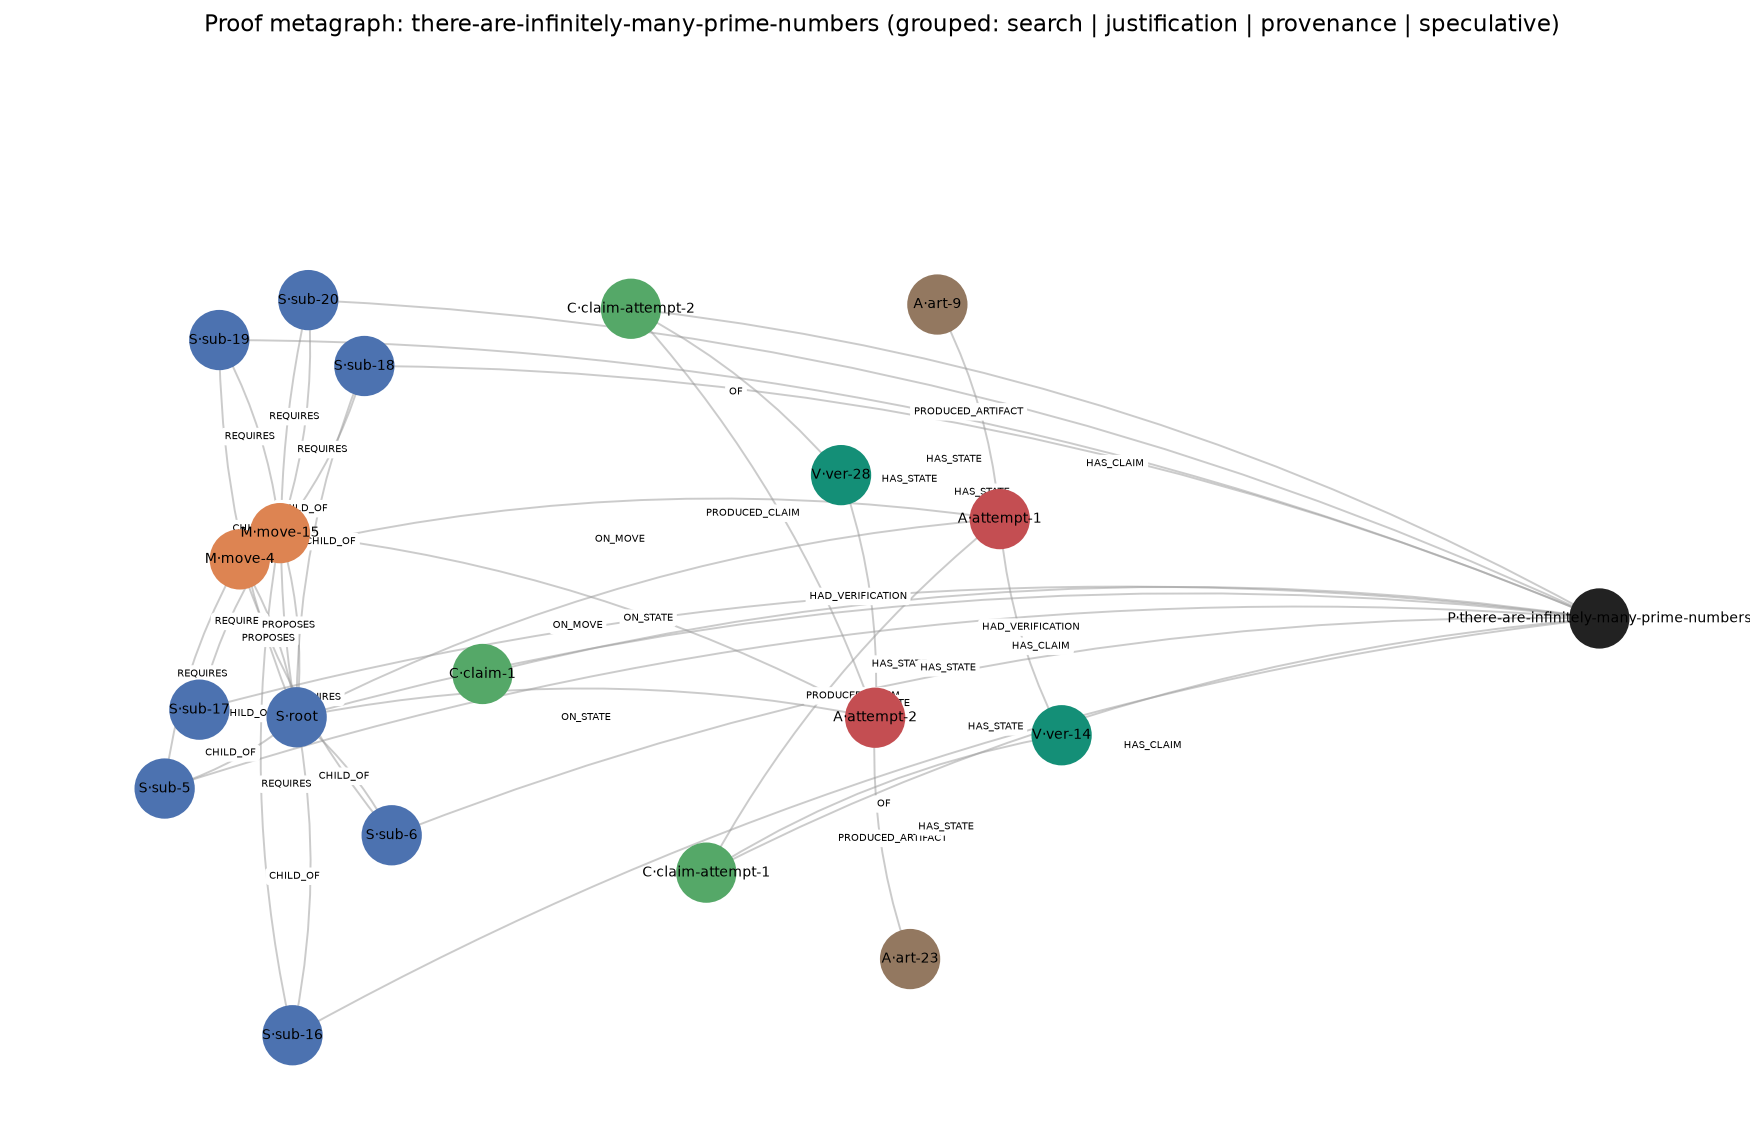
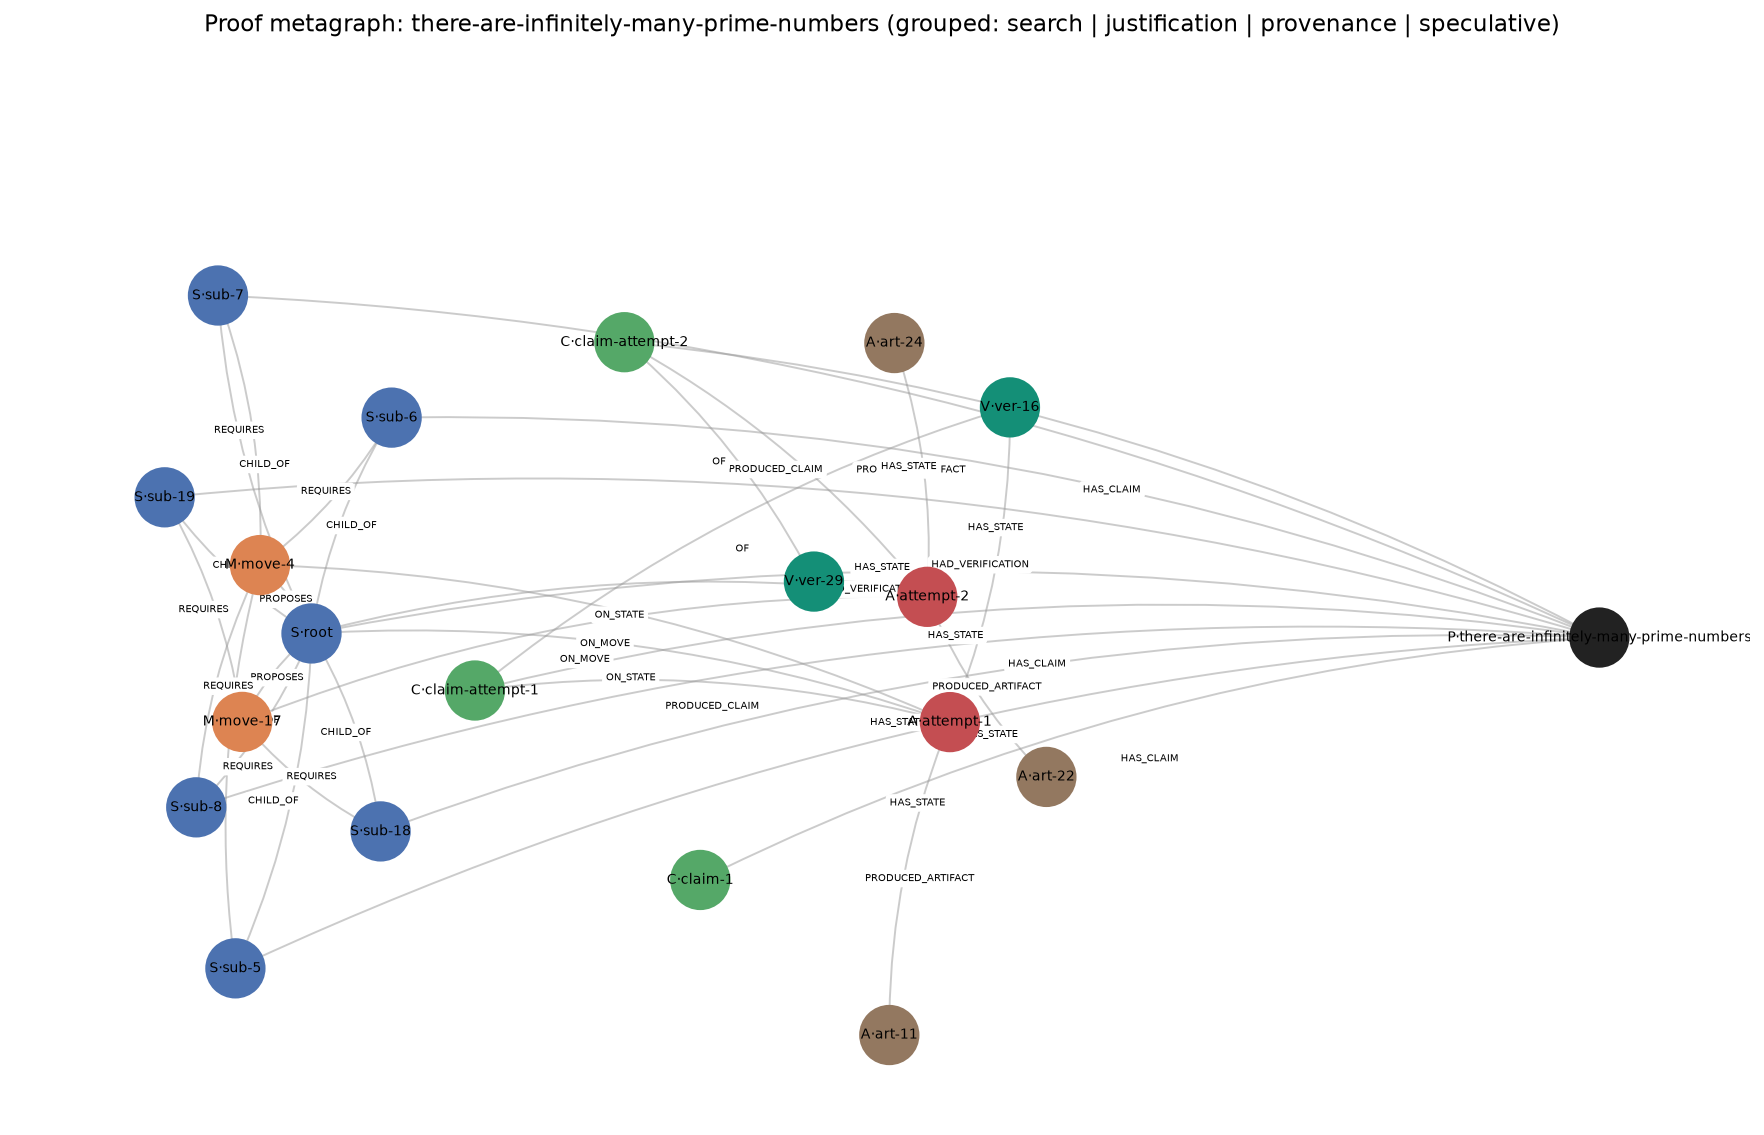
fix the error catagory

diff --git a/proof_proto/langgraph_workflow.py b/proof_proto/langgraph_workflow.py
@@ -76,6 +76,8 @@ LEAN_ERROR_CATEGORIES = (
     "inconsistent_assumptions",
     "likely_mathematical_gap",
    "formal_statement_stronger_than_informal",
+   "missing_mathlib_dependency",
+   "stale_or_moved_mathlib_module"
 )
 
 MATHLIB_GUIDANCE = (
@@ -490,18 +492,15 @@ def classify_lean_error(output: str, *, timed_out: bool = False) -> str:
     if timed_out:
         return "resource_timeout"
     text = output.lower()
-    # A missing import should not lower mathematical promise" —
-    # The specific diagnostic text (unknown module prefix,
-    # bad import, etc.) is still preserved verbatim in the raw `output`
-    # field, so nothing is actually lost -- just not its own category.
     if (
         "unknown module prefix" in text
         or ("no directory" in text and ".olean" in text)
-        or "bad import" in text
-        or "unknown identifier" in text
-        or "unknown constant" in text
-        or "unknown namespace" in text
+        or ("object file" in text and ".olean" in text and "does not exist" in text)
     ):
+        return "missing_mathlib_dependency"
+    if "bad import" in text:
+        return "stale_or_moved_mathlib_module"
+    if "unknown identifier" in text or "unknown constant" in text or "unknown namespace" in text:
         return "missing_definition_or_library_lemma"
     if "type mismatch" in text or "failed to synthesize" in text:
         return "elaboration_type_mismatch"
@@ -829,7 +828,8 @@ class ProofWorkflow:
             if repair["translatable"] and repair["lean_code"]:
                 lean_code = repair["lean_code"]
                 lean_name = repair["lean_name"] or lean_name
-                equivalence_category = ""
+                review = self.llm.check_equivalence(theorem, claim_statement, lean_code)
+                equivalence_category = relation_to_category.get(review["relation"], "")
             else:
                 equivalence_category = "likely_mathematical_gap"
 
